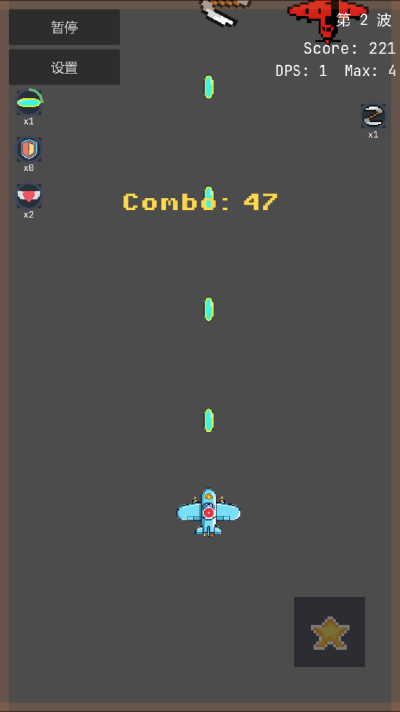
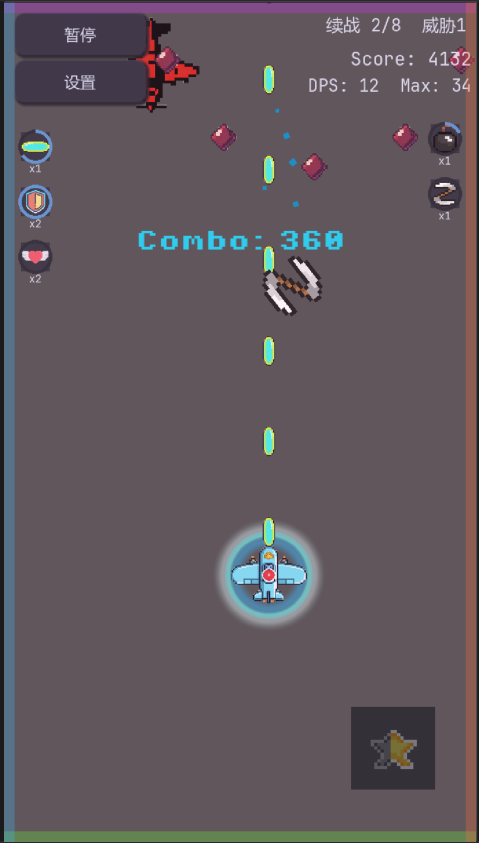
📝 DOCS: Update Readme.md
当日合并 10 个提交（共 11 个）：
- 3b8def1 🎨 UI: 动态调整 UpgradeUI 卡片与 GameOver 结算面板尺寸，补充编辑器占位内容
- 7f28699 🎨 UI: 修正 UpgradeUI 溢出与居中，拆分结算面板为独立标签节点
- 09b39f6 ♻ REFACTOR: UpgradeUI 改用锚点响应式布局，移除脚本宽度计算
- 9b33f1c 🎨 UI: 结算面板改用响应式锚点布局，宽度与设置页统一（480px）
- 3506387 🎨 UI: 升级/弹出菜单统一加背景框，与主菜单弹窗风格一致
- 3726356 🎨 UI: GameOver 按钮添加左右 Padding
- 85bcfc4 🎨 UI: GameOver 界面调整，添加按钮间距并重构按钮布局
- 40202a9 🔧 CHORE: 修正 GameOver 唯一节点命名规范
- 59edcb2 📦 NEW: 准备切换到0.2.5版本
- 40ad63f 📦 NEW: v0.2.5版本
- 9a0d6d8 📝 DOCS: Update Readme.md

diff --git a/CHANGELOG.md b/CHANGELOG.md
@@ -1,23 +1,35 @@
 # Changelog
 
+## [0.2.5] - 2026-04-01
+
+- UI 全面重构：所有弹出界面改为声明式场景节点，编辑器与运行时表现统一。
+- 结算界面优化：新增"本局构筑"回顾，展示本局所有升级词条；面板宽度与设置页统一（480 px）；按钮间距与内边距更规整。
+- 弹窗风格统一：升级选择、设置、Boss 击破等所有弹出面板统一加深色圆角背景框，与主菜单弹窗风格保持一致。
+- 样式修复：修复拟态按钮 hover_pressed 状态渲染变平问题；补全 HSlider、成绩查询与关于界面的拟态样式。
+- FIX：修正 Windows 构建版本号显示为空。
+
 ## [0.2.2] - 2026-03-17
 
 ### 战斗与数值
+
 - 引入**离散生命值系统**：玩家拥有固定 **2 条命**，受击在防御结算后扣 1 命，生命归零（Life = 0）时立刻结束本局并进入结算。
 - 新增**波次间生命恢复**：每当一波战斗清场并进入升级结算时，若当前生命小于 2 条，会自动恢复 **1 命**（不会超过上限），提高长战局的容错率。
 
 ### HUD / UI
+
 - 在 HUD 中新增明确的**剩余生命数展示**，与新生命值系统对齐。
 - 调整结算 UI，在「生命归零」导致的结束时强调死亡提示（如显示 “You Dead”），让玩家清楚本局是因耗尽生命结束。
 - 优化符卡星形按钮 `SpellStarButton` 的大小与位置，并调整 HUD 左上按钮区域布局，提升触控可点性与整体视觉平衡。
 
 ### 文档与描述
+
 - 更新 GDD 概览与数值规则章节，详细说明 2 条命生命系统、「生命归零立刻结算」、以及**每波结束恢复 1 命**的规则。
 - 更新 README 与主菜单 About 页面，一句话简介同步改为「2 条命离散生命值系统 + 每波结束恢复 1 命」，对外描述与实际玩法一致。
 
 ## [0.2.1] - 2026-03-16
 
 ### 文档与发布
+
 - 在 GDD 中新增「版本发布信息与检查清单」（第 13 章），统一记录每次发版前需要自检的游戏内/仓库/发布页信息。
 - 更新平台与发布章节：当前阶段改为以本地导出为主，CI 自动构建改为可选而非硬性要求。
 - 对齐 Android 导出版本号与 Godot 工程版本：`0.2.1`（`version/name`）与 `version/code=201`。
@@ -25,6 +37,7 @@
 ## [0.2.0] - 2026-03-16
 
 ### HUD / UI
+
 - 重构 HUD 数值展示：主炮与护盾改为左侧 `StatusSlot` 槽位（图标 + 外圈进度环 + `xN` 数量），右侧为副武器与符卡的独立冷却槽条。
 - 新增星形符卡按钮 `SpellStarButton`：使用 `star0~star4` 帧序列表现充能进度，冷却中仅显示圆角底框，冷却完成后满星点亮；右下角只在可手动释放时显示，获得自动符卡后隐藏。
 - 右侧增加符卡冷却槽：图标改用星形，自动符卡时展示冷却进度，未自动符卡时不显示该槽。
@@ -32,31 +45,37 @@
 - 统一使用 `default_ui_theme.tres` 管理字体与样式，删除 HUD 中零散的字体覆盖逻辑。
 
 ### 战斗与数值
+
 - 擦弹（Graze）除了加分外，现在也会增加连击值（等同一次命中），对应文档同步更新。
 - 提高普通波次出怪量：每波基础敌人数从 4 提升到 6，每波递增从 +2 提高到 +3，使整体刷怪更密集。
 
 ## [0.1.1] - 2026-03-13
 
 ### 战斗与数值
+
 - **主炮攻速**：实际出手 **75 发/秒** 封顶；**理论射速**可继续随连击/速射升高，超出部分按 **每 1% → +0.02** 折算进主炮伤害（HUD **主炮伤害 ×× [+××]**）。
 - **连击攻速**：10 / 25 / 50 / 100 连分档；**100 连后每再多 100 连 +5% 攻速**（倍率 +0.05，线性）。
 - **Boss**：主线与续战 Boss **血量加厚**，避免高强化下过快蒸发。
 
 ### 续战与流程
+
 - **续战 8 波**，第 **8 波为 Boss**；续关 **+1 稳态护盾**；进入续战前 **连续 3 次三选一**。
 - 调试：**跳 Boss** 适配续战；局内设置 **连击 +10/50/100/500 与清零**。
 
 ### 武器与符卡
+
 - **炸弹**为副武器：`PlayerBomb`、爆炸 **AoE**、爆炸帧清区域内 **敌弹**、飞行中可 **撞毁敌弹**；与玩家碰撞忽略。
 - **符卡**：`spell_*` 与炸弹区分；符卡弹贴图与朝向；**逐发消弹**；可选 **自动符卡** 升级。
 - **弓箭**：消弹与高伤；**回旋镖**：回一枚射一枚、词条与逻辑调整。
 - 移除 **boss_hunter** 词条。
 
 ### HUD / UI
+
 - 左侧 **LeftStatsVBox**：护盾层数、主炮（伤害含溢出、射速仅超上限时显示封顶、齐射分行）、副武器、符卡。
 - **Combo** 置于波次旁；DPS / 分数布局调整；关于页展示 **版本号**（与 `config/version` 一致）。
 
 ### 修复与平台
+
 - HUD **实际射速**不再因 `0.02` 下限误显示为 50/s；**player.gd** 子弹伤害缩进等修复。
 - **擦弹**粒子 Android 可见与层级；**符卡区**与拖动不冲突（短按发动）。
 

diff --git a/README.md b/README.md
@@ -1,7 +1,14 @@
-# plane-war
+# Plane War
 
-竖屏弹幕射击小品：**波次清场 → 三选一强化 → Boss**，以 **评分 / 连击 / DPS** 为核心反馈，采用 **2 条命离散生命值系统**（受击扣命，生命归零时立刻结算本局，且每波结束若未满血会自动恢复 1 命）。  
-Godot 4 开发，面向 **Windows / Android**。
+> 一款基于 Godot 4 的竖屏弹幕射击游戏：清场波次、三选一成长、挑战 Boss，冲击更高分数与连击。
+
+<p align="left">
+  <img alt="Godot" src="https://img.shields.io/badge/Engine-Godot%204.6-478cbf?logo=godot-engine&logoColor=white" />
+  <img alt="Platform" src="https://img.shields.io/badge/Platform-Windows%20%7C%20Android-2ea44f" />
+  <img alt="Status" src="https://img.shields.io/badge/Status-Active-ff9800" />
+</p>
+
+## 游戏预览
 
 <p align="center">
   <img src="docs/picture/Start%20Menu.png" alt="主菜单" width="280" />
@@ -9,47 +16,60 @@ Godot 4 开发，面向 **Windows / Android**。
   <img src="docs/picture/Playing.png" alt="战斗中" width="280" />
   &nbsp;&nbsp;
   <img src="docs/picture/Upgrade.png" alt="升级三选一" width="280" />
+  &nbsp;&nbsp;
+  <img src="docs/picture/Game%20Over.png" alt="游戏结束" width="280" />
 </p>
 
-| 主菜单 | 战斗 | 升级三选一 |
-|--------|------|------------|
+| 主菜单 | 战斗中 | 升级三选一 | 挑战 Boss |
+|---|---|---|---|
 
----
+## 功能亮点
 
-## 玩法摘要
+- 🎮 **核心循环**：波次战斗 -> 清场结算 -> 三选一强化 -> Boss 挑战  
+- ⚡ **操作手感**：单手拖拽移动 + 自动射击，适配移动端节奏  
+- ❤ **生命机制**：2 条命离散生命系统，受击扣命并短暂无敌，波次间可恢复  
+- 🧠 **成长策略**：Roguelite 升级池构筑，围绕生存、爆发、节奏做取舍  
+- 📊 **局外反馈**：本地记录历史最高得分、连击和 DPS  
 
-- **操作**：单手拖拽移动，自动射击  
-- **流程**：多波敌人 → 每波结束 **三选一 Roguelite 强化** → 约第 8 波进入 **Boss**  
-- **惩罚**：玩家拥有固定 **2 条命**；受击在结算护盾后若仍命中则扣 1 命并短暂无敌，生命未归零时可继续战斗但会 **断连击 / 衰减评分加成**，当生命归零（Life = 0）时本局立刻进入结算；每当一波战斗清场并进入升级结算时，若生命未满 2 条会自动恢复 1 命；整体鼓励多打刷高分  
-- **局外**：本地记录历史最高 **得分 / 连击 / DPS**（主菜单「成绩查询」）
+## 快速开始
 
----
+### 1) 运行项目（Godot 编辑器）
 
-## 运行与导出
+1. 安装 [Godot 4.6](https://godotengine.org/)  
+2. 用 Godot 打开仓库根目录  
+3. 运行主场景 `scenes/MainMenu.tscn`
 
-- **引擎**：[Godot 4.6](https://godotengine.org/)（项目 `config/features` 含 `4.6`、`Mobile`）  
-- **打开工程**：用 Godot 打开本仓库根目录  
-- **运行**：主场景为 **`scenes/MainMenu.tscn`**（启动先进主菜单）  
-- **导出**：按 Godot 导出预设配置 **Windows / Android / Web** 等（见 `export_presets.cfg`）
+### 2) 导出目标平台
 
----
+- 导出预设见 `export_presets.cfg`  
+- 当前面向平台：`Windows`、`Android`（并保留 `Web` 相关导出配置）
 
-## 仓库与文档
+如果你要开发 Mod，建议先阅读运行机制文档，再基于示例 Mod 快速验证事件与注册流程。
 
-| 链接 | 说明 |
-|------|------|
-| **源码** | [github.com/qingzhixing/plane-war](https://github.com/qingzhixing/plane-war) |
-| **设计文档** | [`docs/gdd/GDD.md`](docs/gdd/GDD.md) 及 [`docs/gdd/sections/`](docs/gdd/sections/) |
-| **截图目录** | [`docs/picture/`](docs/picture/)（内含 `.gdignore`，Godot 不导入该目录，避免多余 `.import`） |
+## 文档导航
 
----
+- 📘 总体 GDD：[`docs/gdd/GDD.md`](docs/gdd/GDD.md)  
+- 🧱 分章节设计：[`docs/gdd/sections/`](docs/gdd/sections/)  
+- 🖼 截图资源：[`docs/picture/`](docs/picture/)  
+- 🗒 更新记录：[`CHANGELOG.md`](CHANGELOG.md)
 
-## 开发者
+## 项目结构（简版）
 
-**qingzhixing** — 欢迎 Issue / PR。
+```text
+plane-war/
+├─ scenes/           # 场景
+├─ scripts/          # 游戏逻辑脚本
+├─ assets/           # 资源素材
+├─ docs/             # 文档（GDD、Mod 指南、截图等）
+└─ project.godot
+```
 
----
+## 开发与协作
 
-## 许可
+- 仓库地址：[github.com/qingzhixing/plane-war](https://github.com/qingzhixing/plane-war)  
+- 欢迎通过 Issue / PR 提出建议与改进  
+- 维护者：`qingzhixing`
 
-若仓库根目录未单独放置 `LICENSE`，以仓库内实际声明为准；引用或二次分发前请留意作者授权说明。
+## 许可说明
+
+若仓库根目录未单独放置 `LICENSE`，请以仓库内实际声明为准；引用或分发前请确认授权范围。
